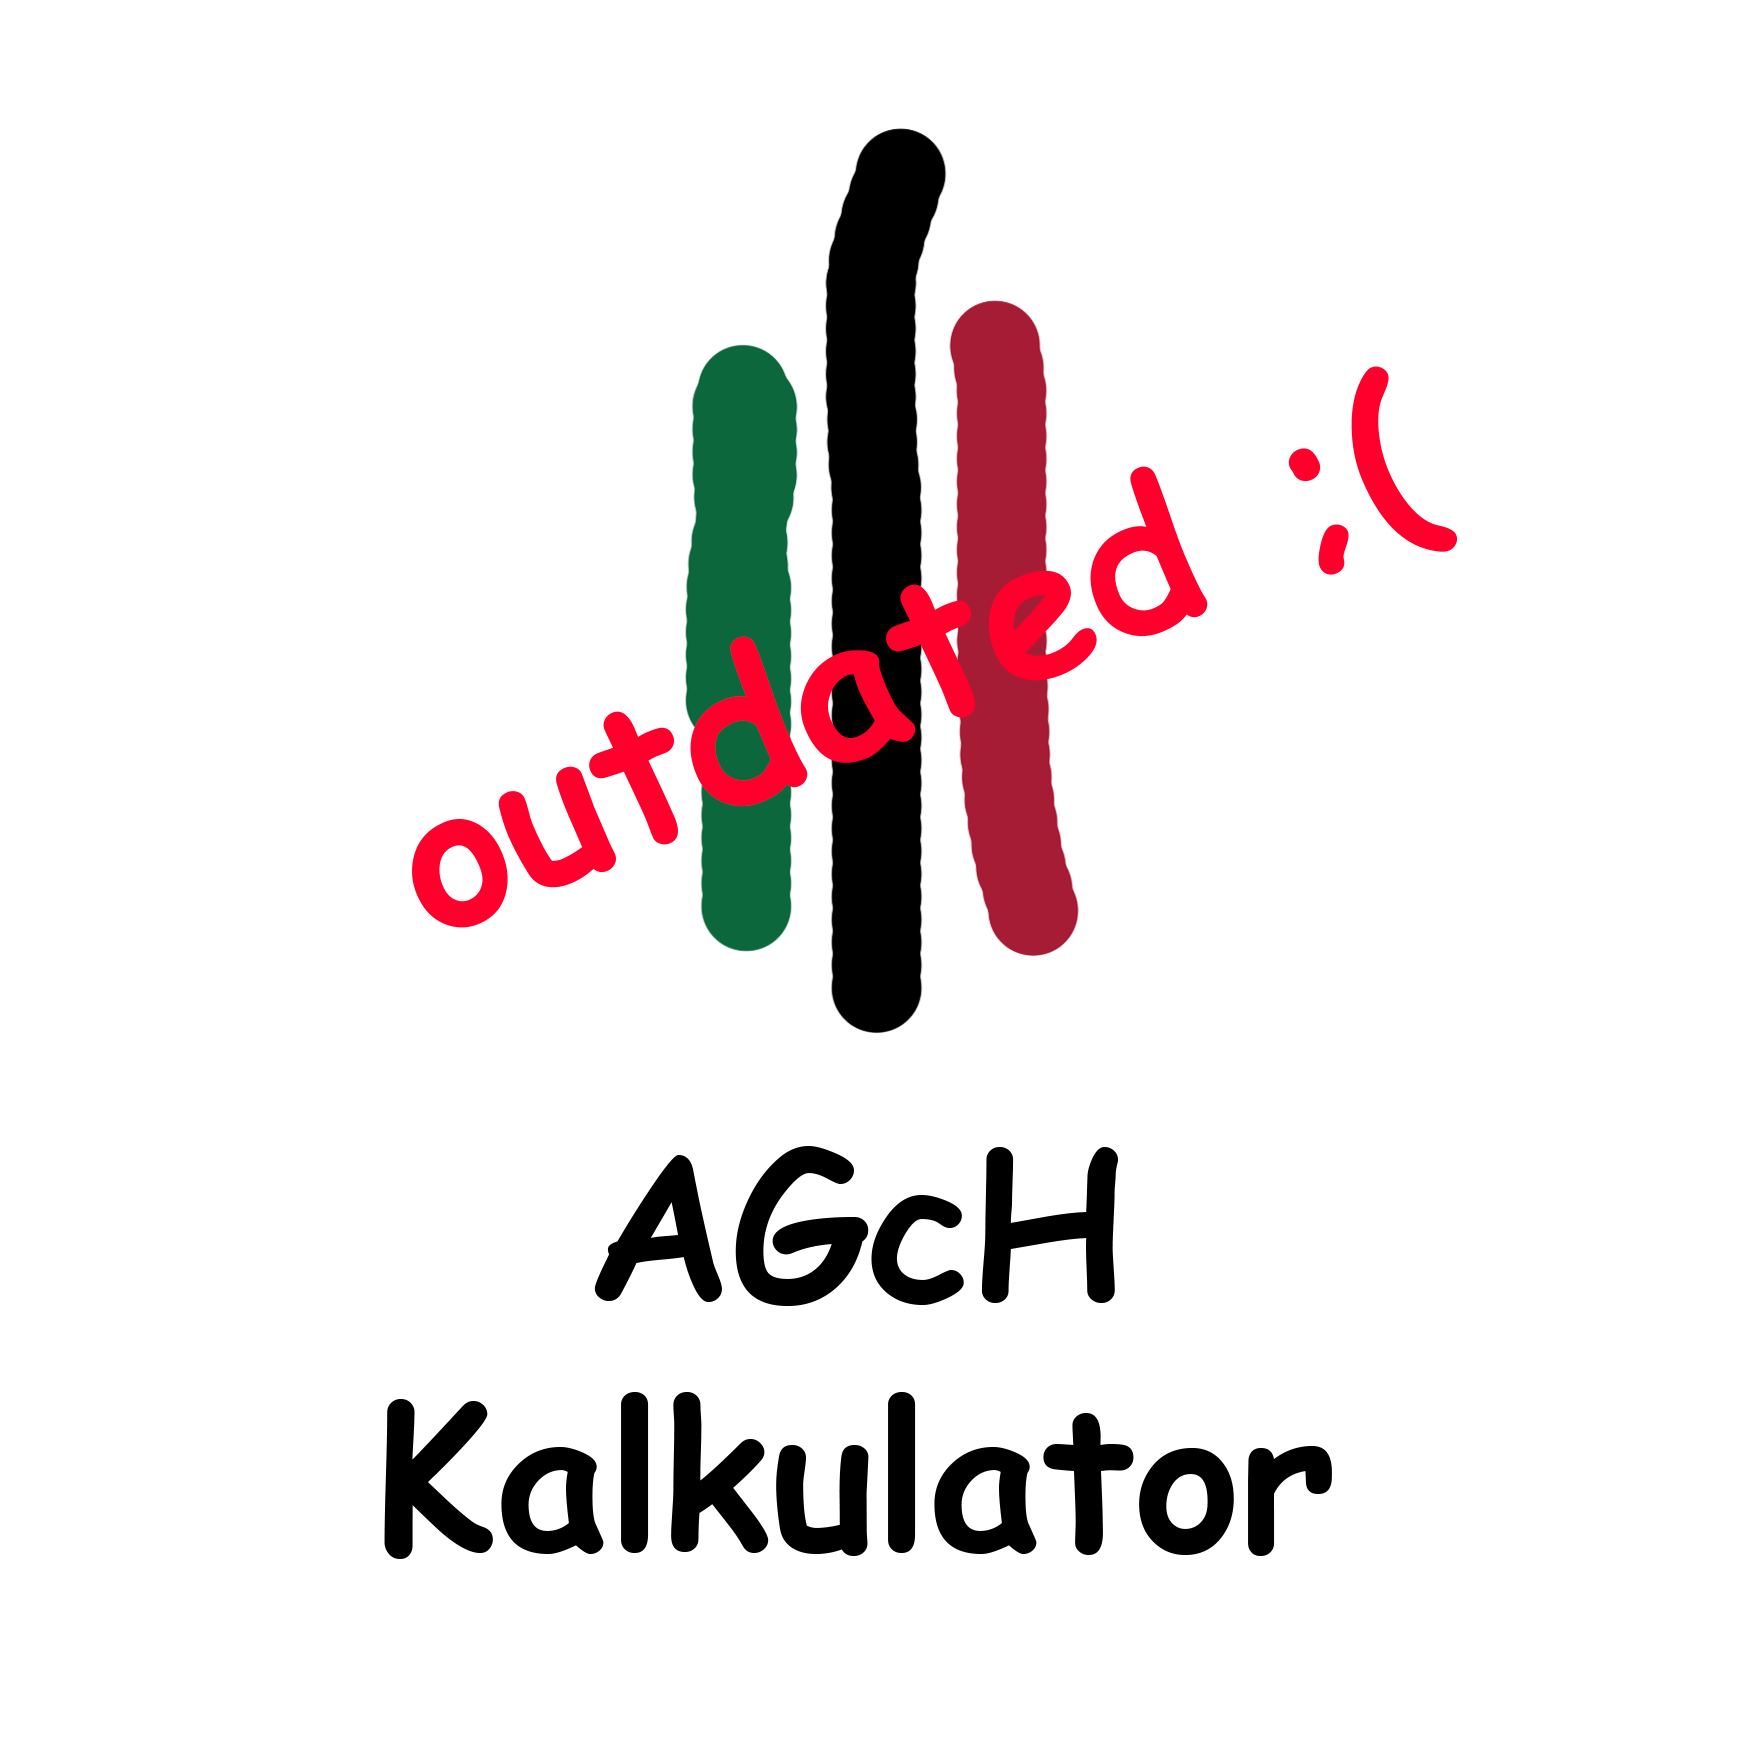
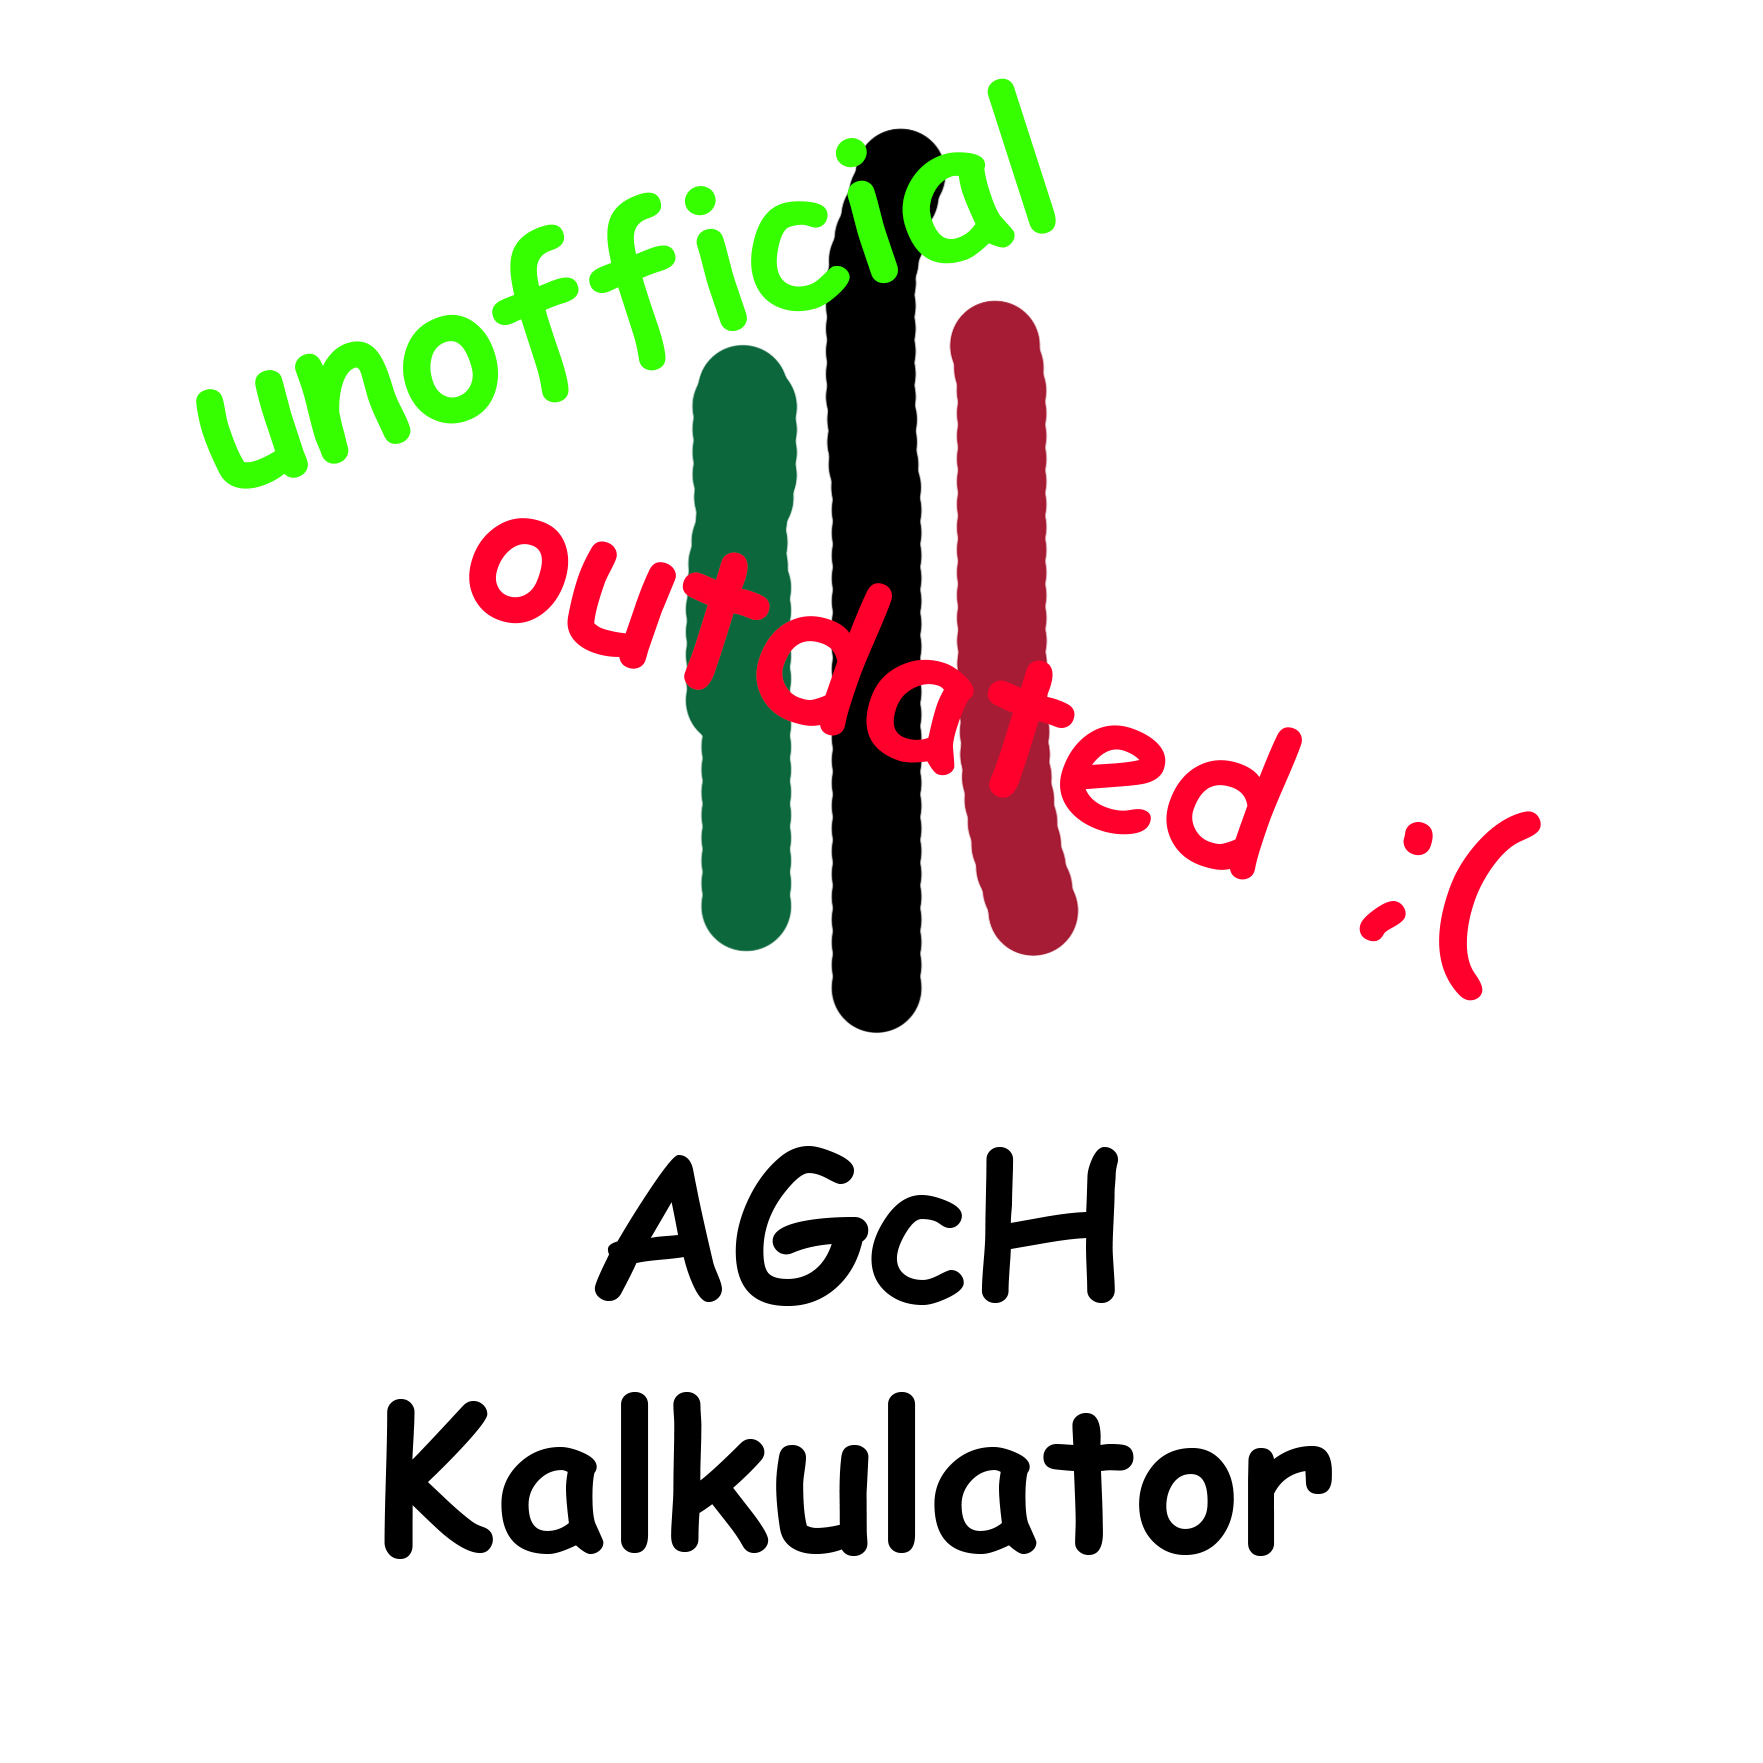
Add more info

diff --git a/public/index.html b/public/index.html
@@ -4,9 +4,10 @@
     <meta charset="utf-8">
     <meta name="viewport" content="width=device-width, initial-scale=1, shrink-to-fit=no">
     <meta name="theme-color" content="#000000">
-    <meta name="description" content="Kalkulator AGcH to projekt zrobiony w ramach hobby - liczy wskaźnik punktów
-    rekrutacyjnych, ale był pisany kilka lat temu, nie jest już wspierany i posługuje się danymi na temat kierunków
-    z tamtych lat. Część wyników może się pokryć z obecnymi zasadami, ale na pewno nie wszystko - sorry ¯\_(ツ)_/¯"
+    <meta name="description" content="Kalkulator AGcH to nieoficjalny projekt zrobiony w ramach hobby - liczy wskaźnik
+    punktów rekrutacyjnych, ale był pisany kilka lat temu, nie jest już rozwijany i posługuje się danymi na temat
+    kierunków z tamtych lat. Część wyników może się pokryć z obecnymi zasadami, ale na pewno nie wszystko - sorry
+    ¯\_(ツ)_/¯"
     />
     <link rel="shortcut icon" href="%PUBLIC_URL%/favicon.png">
     <title>Kalkulator AGcH</title>

diff --git a/src/components/Introduction.js b/src/components/Introduction.js
@@ -7,12 +7,15 @@ const Introduction = () => (
     <br />
 
     <h5>
-      Kalkulator AGcH to projekt zrobiony w ramach hobby - liczy wskaźnik punktów
-      rekrutacyjnych, ale był pisany kilka lat temu, nie jest już wspierany i posługuje się danymi na temat kierunków
+      Kalkulator AGcH to nieoficjalny projekt zrobiony w ramach hobby - liczy wskaźnik punktów
+      rekrutacyjnych, ale był pisany kilka lat temu, nie jest już rozwijany i posługuje się danymi na temat kierunków
       sprzed kilku lat.
       <br />
       <br />
       Część wyników może się pokryć z obecnymi zasadami, ale na pewno nie wszystko - sorry ¯\_(ツ)_/¯
+      <br />
+      <br />
+      Można się nim sugerować, ale na własne ryzyko!!!!!!!!!!!1 Jak coś, to ostrzegałem
     </h5>
 
     <br />
